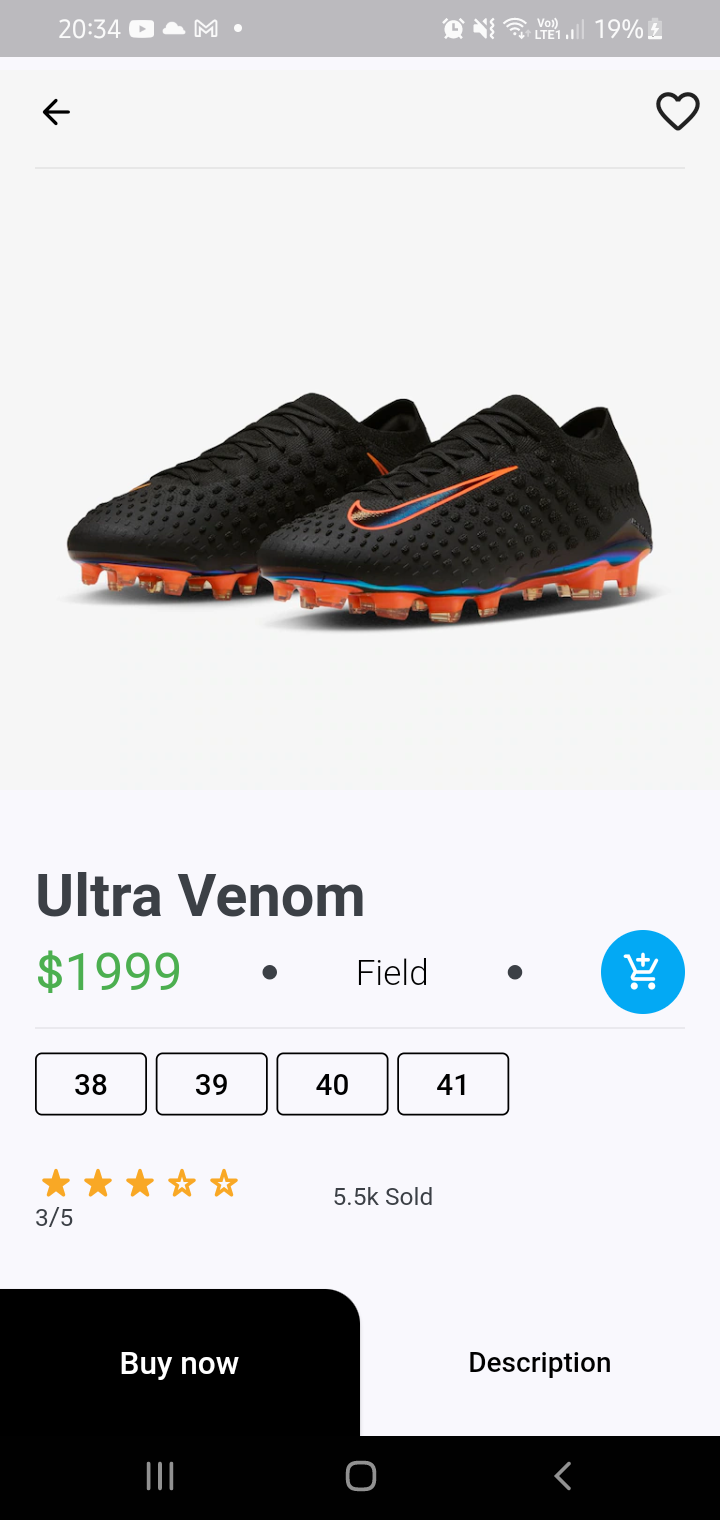
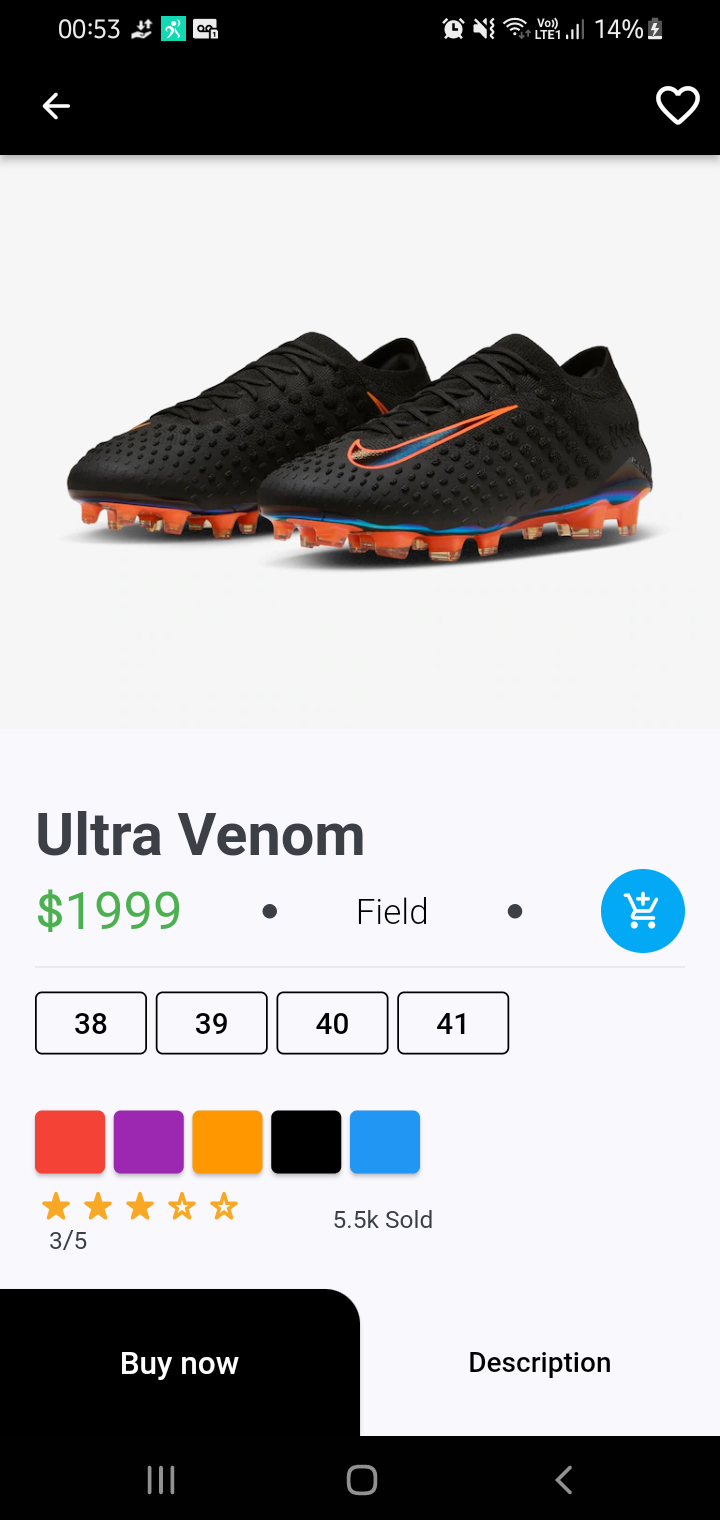
feat(FittingSize): add ButtonColor

diff --git a/lib/src/screens/details/components/fittings/fitting.size.dart b/lib/src/screens/details/components/fittings/fitting.size.dart
@@ -1,4 +1,5 @@
 import 'package:flutter/material.dart';
+import 'package:shop/src/screens/details/components/fittings/button.color.dart';
 import 'package:shop/src/screens/details/components/fittings/button.size.dart';
 import 'package:shop/src/utils/constants.dart';
 
@@ -26,6 +27,20 @@ class FittingSize extends StatelessWidget {
             ],
           ),
           SizedBox(height: 20),
+          Row(
+            children: const [
+              ButtonColor(color: Colors.red),
+              SizedBox(width: 5),
+              ButtonColor(color: Colors.purple),
+              SizedBox(width: 5),
+              ButtonColor(color: Colors.orange),
+              SizedBox(width: 5),
+              ButtonColor(color: Colors.black),
+              SizedBox(width: 5),
+              ButtonColor(color: Colors.blue),
+              SizedBox(width: 5),
+            ],
+          )
         ],
       ),
     );

diff --git a/lib/src/screens/details/components/rating.sold.dart b/lib/src/screens/details/components/rating.sold.dart
@@ -13,10 +13,10 @@ class RatingAndSold extends StatelessWidget {
       child: Row(
         children: [
           Column(
+            mainAxisAlignment: MainAxisAlignment.start,
             crossAxisAlignment: CrossAxisAlignment.start,
             children: [
               Row(
-                mainAxisAlignment: MainAxisAlignment.center,
                 children: [
                   Icon(
                     Icons.star_rate_rounded,
@@ -40,7 +40,10 @@ class RatingAndSold extends StatelessWidget {
                   ),
                 ],
               ),
-              Text('3/5'),
+              Padding(
+                padding: const EdgeInsets.symmetric(horizontal: 8.0),
+                child: Text('3/5'),
+              ),
             ],
           ),
           SizedBox(width: 50),

diff --git a/lib/src/screens/details/components/fittings/button.color.dart b/lib/src/screens/details/components/fittings/button.color.dart
@@ -1,0 +1,24 @@
+import 'package:flutter/material.dart';
+
+class ButtonColor extends StatelessWidget {
+  const ButtonColor({
+    Key? key,
+    required this.color,
+  }) : super(key: key);
+
+  final Color color;
+
+  @override
+  Widget build(BuildContext context) {
+    return SizedBox(
+      width: 40,
+      child: ElevatedButton(
+        style: ButtonStyle(
+          backgroundColor: MaterialStateProperty.all(color),
+        ),
+        child: null,
+        onPressed: () => print('Color'),
+      ),
+    );
+  }
+}
